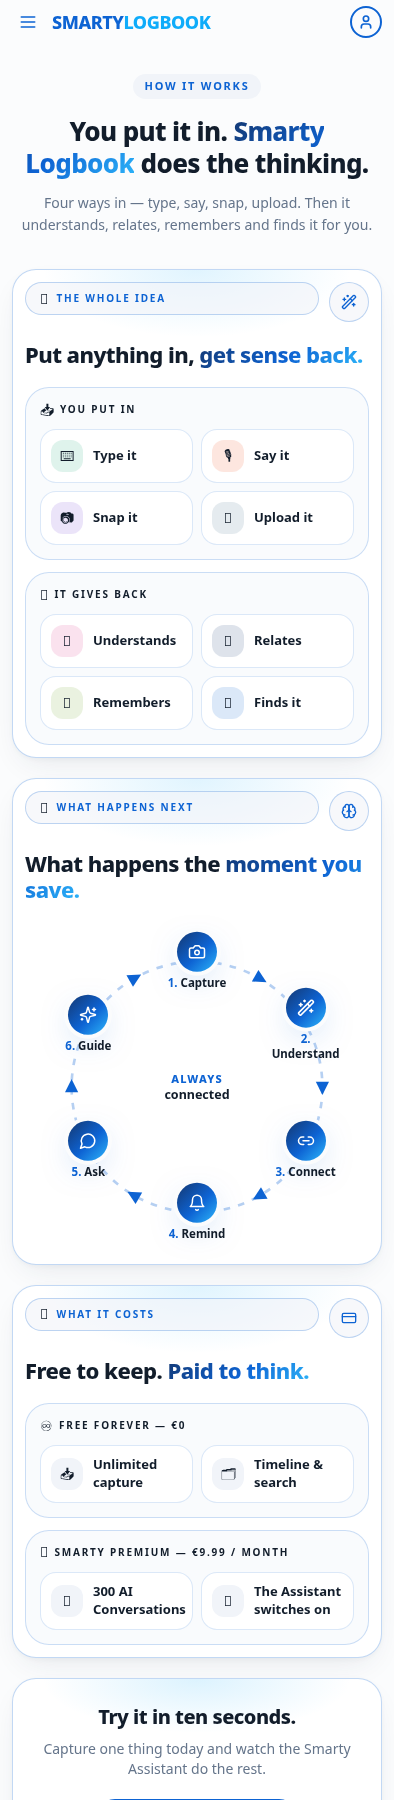
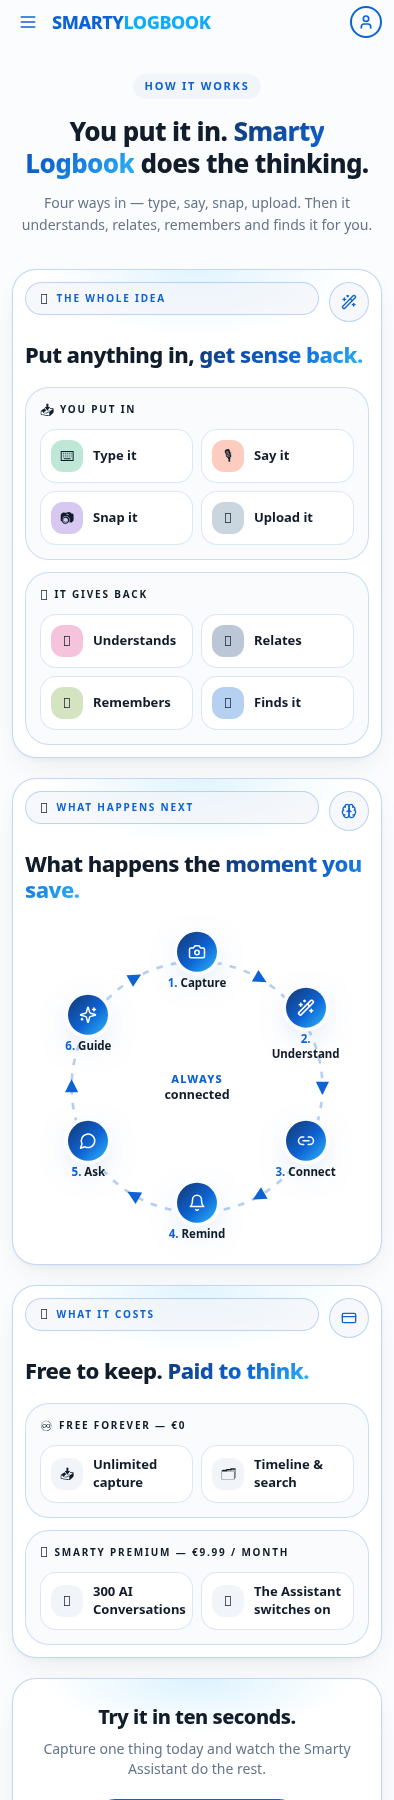
Changes

diff --git a/src/lib/marketing.tsx b/src/lib/marketing.tsx
@@ -37,17 +37,17 @@ export const features = [
 
 /* The whole product in two columns: what you put in, what comes back. */
 export const givesIn = [
-  { e: '⌨', t: 'Type it', s: 'A thought, a number, a note.', tint: 'bg-mod-health/15' },
-  { e: '🎙', t: 'Say it', s: 'Speak, it gets written down.', tint: 'bg-mod-fitness/15' },
-  { e: '📷', t: 'Snap it', s: 'A receipt, a label, a screen.', tint: 'bg-mod-finance/15' },
-  { e: '📎', t: 'Upload it', s: 'PDFs, reports, invoices.', tint: 'bg-mod-documents/15' },
+  { e: '⌨', t: 'Type it', s: 'A thought, a number, a note.', tint: 'bg-mod-health/30' },
+  { e: '🎙', t: 'Say it', s: 'Speak, it gets written down.', tint: 'bg-mod-fitness/30' },
+  { e: '📷', t: 'Snap it', s: 'A receipt, a label, a screen.', tint: 'bg-mod-finance/30' },
+  { e: '📎', t: 'Upload it', s: 'PDFs, reports, invoices.', tint: 'bg-mod-documents/30' },
 ];
 
 export const givesBack = [
-  { e: '🧠', t: 'Understands', s: 'Reads it and pulls out the details.', tint: 'bg-mod-personal/15' },
-  { e: '🔗', t: 'Relates', s: 'Attaches it to what already exists.', tint: 'bg-mod-business/15' },
-  { e: '📌', t: 'Remembers', s: 'Kept for as long as you want it.', tint: 'bg-mod-nutrition/15' },
-  { e: '🔎', t: 'Finds it', s: 'Ask in plain words, get the answer.', tint: 'bg-primary/15' },
+  { e: '🧠', t: 'Understands', s: 'Reads it and pulls out the details.', tint: 'bg-mod-personal/30' },
+  { e: '🔗', t: 'Relates', s: 'Attaches it to what already exists.', tint: 'bg-mod-business/30' },
+  { e: '📌', t: 'Remembers', s: 'Kept for as long as you want it.', tint: 'bg-mod-nutrition/30' },
+  { e: '🔎', t: 'Finds it', s: 'Ask in plain words, get the answer.', tint: 'bg-primary/30' },
 ];
 
 
